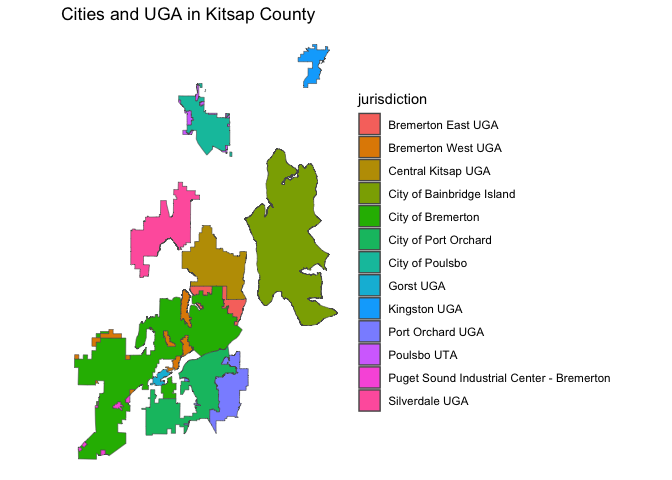
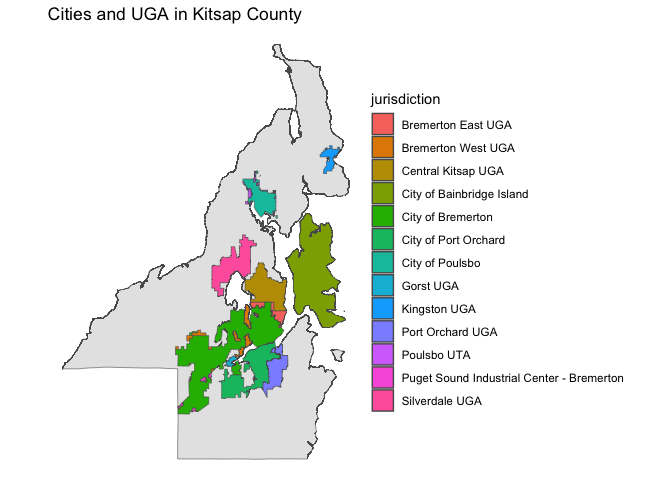
updates example map

Changed region(s): [[0.0938, 0.0938, 0.9375, 0.9688], [0.0625, 0.0, 0.4688, 0.0625]]

diff --git a/README.md b/README.md
@@ -32,7 +32,7 @@ commiss <- get_kc_data(get_dataset_name("commission"))
 You can pull these data down and make a quick map.
 
 ``` r
-library(tidyverse)
+library(tidyverse, quietly = TRUE)
 #> ── Attaching core tidyverse packages ──────────────────────── tidyverse 2.0.0 ──
 #> ✔ dplyr     1.1.4     ✔ readr     2.1.5
 #> ✔ forcats   1.0.0     ✔ stringr   1.5.1
@@ -46,13 +46,13 @@ library(tidyverse)
 ```
 
 ``` r
-library(r4kc)
-library(sf)
+library(r4kc, quietly = TRUE)
+library(sf, quietly = TRUE)
 #> Linking to GEOS 3.11.0, GDAL 3.5.3, PROJ 9.1.0; sf_use_s2() is TRUE
 ```
 
 ``` r
-
+outline <- get_kc_data("Kitsap_County_Outline")
 uga <- get_kc_data(get_dataset_name("uga"))
 cities_and_uga <- uga %>%
   mutate(type = ifelse(grepl("City ", GMA_JURISDICTION), "City", "UGA")) %>%
@@ -62,6 +62,7 @@ cities_and_uga <- uga %>%
   select(jurisdiction)
 
 ggplot() +
+  geom_sf(data = outline) +
   geom_sf(data = cities_and_uga, aes(fill = jurisdiction)) +
   labs(title = "Cities and UGA in Kitsap County") +
   theme_void()
